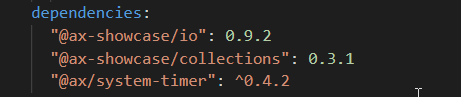
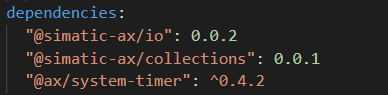
switch all to simatic-ax registry

diff --git a/doc/write-tests.md b/doc/write-tests.md
@@ -1,0 +1,116 @@
+# Using the testing framework
+
+## Goal for this training chapter
+
+After this training session:
+
+- you know the test explorer and the `Run tests` button
+- you can execute tests within the IDE
+- you've knowledge about the command line based testing
+- you know a test class looks like
+- you know how you create a test method
+- you know what are assertions and how they're used
+- use full qualified type identifier
+- you know how parametrized tests are working and modify them
+  
+### The test explorer and executing tests
+
+In the tutorial, there are a couple predefined tests shipped they can be executed.
+
+1. Open the test explorer
+
+    ![drawing](./images/testexplorer.png)
+
+1. Run the tests by clicking on `Run Tests`
+
+    ![drawing](./images/runtests.png)
+
+1. See the test results
+
+    ![drawing](./images/testresults.png)
+
+    **Alternative workflow**
+
+    You can also execute the tests by command line command. You've just to enter `apax test` in a terminal.
+
+    ```iec-st
+    apax test
+    ```
+
+    > Note: in case of executing the tests by command line, the test explorer results will not be updated. The test results will be shown in the command line output.
+
+### 
+
+### Create a test for the new implemented class valve
+
+1. Open the file `Test_Valve.st` in the folder `test`
+
+    ![drawing](./images/test_fixture.png)
+
+    Here you can see a template for a test class. It's marked with the pragma `{TestFixture}`
+
+1. Insert a test method. By entering `te`  `test-method` will be proposed. And press enter
+
+    ![drawing](./images/testmethod.png)
+
+    Test methods will be marked with the pragma `{Test}`
+
+    ![drawing](./images/testmethod2.png)
+
+1. Change the name of the method to `Test_Open_valve_and_Expect_IsOpen_True`
+
+    >Test methods should alway have a speech name //TODO speech??
+
+1. In the next step we select our class we want to test. Therefore we declare the variable v in the VAR section
+
+    ```iec-st
+    VAR PRIVATE
+        v : Simatic.Ax.Tutorial.Valve;
+    END_VAR
+    ```
+
+    In this case we use the full qualified path for the Valve class. This is another way to define variables from namespaces beside the `USING` keyword.
+
+1. To implement the test itself, we modify the method `MyTestMethod` in this way:
+
+    ```iec-st
+    {Test}
+    METHOD PUBLIC Test_Open_valve_and_Expect_IsOpen_True
+        v.Open();
+        AxUnit.Assert.Equal(actual := v.IsOpen(), expected := TRUE);
+    END_METHOD
+    ```
+
+    Explanation:
+
+    1. The method `v.Open()` calls the method Open of the class valve. In this case we expect, that the method `IsOpen()` returns the value `TRUE`
+
+    1. The expression `Equal(actual := v.IsOpen(), expected := TRUE);` contains the assertion `Equal` which check if the returned value of `IsOpen()` equals `TRUE`.
+
+        Further assertions are:
+        - NotEqual
+        - LessThan
+        - GreaterThan
+  
+        More information regarding testing, you'll find [here]([./images/test_fixture.png](https://console.prod.ax.siemens.cloud/docs/axunit))
+
+## Summary
+
+Goal reached? Check yourself...
+
+- you know the test explorer and the `Run tests` button ✔
+- you can execute tests within the IDE ✔
+- you've knowledge about the command line based testing ✔
+- you know a test class looks like ✔
+- you know how you create a test method ✔
+- you know what are assertions and how they're used ✔
+- use full qualified type identifier ✔
+- you know how parametrized tests are working and modify them ✔
+
+- you know the test explorer and the `Run tests` button ✔
+- you can execute tests within the IDE ✔
+- you've knowledge about the command line based testing ✔
+- you know what a test class is ✔
+- you know what a test method is ✔
+- you know what are assertions and how they're used ✔
+- you know how parametrized tests are working and modify them ✔

diff --git a/doc/testing-framework.md b/doc/testing-framework.md
@@ -1,4 +1,4 @@
-# Using the testing framework
+# Usage of the testing framework
 
 ## Goal for this training chapter
 
@@ -6,12 +6,8 @@ After this training session:
 
 - you know the test explorer and the `Run tests` button
 - you can execute tests within the IDE
+- you know the feature `single test execution`
 - you've knowledge about the command line based testing
-- you know a test class looks like
-- you know how you create a test method
-- you know what are assertions and how they're used
-- use full qualified type identifier
-- you know how parametrized tests are working and modify them
   
 ### The test explorer and executing tests
 
@@ -39,61 +35,6 @@ In the tutorial, there are a couple predefined tests shipped they can be execute
 
     > Note: in case of executing the tests by command line, the test explorer results will not be updated. The test results will be shown in the command line output.
 
-### 
-
-### Create a test for the new implemented class valve
-
-1. Open the file `Test_Valve.st` in the folder `test`
-
-    ![drawing](./images/test_fixture.png)
-
-    Here you can see a template for a test class. It's marked with the pragma `{TestFixture}`
-
-1. Insert a test method. By entering `te`  `test-method` will be proposed. And press enter
-
-    ![drawing](./images/testmethod.png)
-
-    Test methods will be marked with the pragma `{Test}`
-
-    ![drawing](./images/testmethod2.png)
-
-1. Change the name of the method to `Test_Open_valve_and_Expect_IsOpen_True`
-
-    >Test methods should alway have a speech name //TODO speech??
-
-1. In the next step we select our class we want to test. Therefore we declare the variable v in the VAR section
-
-    ```iec-st
-    VAR PRIVATE
-        v : Simatic.Ax.Tutorial.Valve;
-    END_VAR
-    ```
-
-    In this case we use the full qualified path for the Valve class. This is another way to define variables from namespaces beside the `USING` keyword.
-
-1. To implement the test itself, we modify the method `MyTestMethod` in this way:
-
-    ```iec-st
-    {Test}
-    METHOD PUBLIC Test_Open_valve_and_Expect_IsOpen_True
-        v.Open();
-        AxUnit.Assert.Equal(actual := v.IsOpen(), expected := TRUE);
-    END_METHOD
-    ```
-
-    Explanation:
-
-    1. The method `v.Open()` calls the method Open of the class valve. In this case we expect, that the method `IsOpen()` returns the value `TRUE`
-
-    1. The expression `Equal(actual := v.IsOpen(), expected := TRUE);` contains the assertion `Equal` which check if the returned value of `IsOpen()` equals `TRUE`.
-
-        Further assertions are:
-        - NotEqual
-        - LessThan
-        - GreaterThan
-  
-        More information regarding testing, you'll find [here]([./images/test_fixture.png](https://console.prod.ax.siemens.cloud/docs/axunit))
-
 ## Summary
 
 Goal reached? Check yourself...
@@ -101,16 +42,3 @@ Goal reached? Check yourself...
 - you know the test explorer and the `Run tests` button ✔
 - you can execute tests within the IDE ✔
 - you've knowledge about the command line based testing ✔
-- you know a test class looks like ✔
-- you know how you create a test method ✔
-- you know what are assertions and how they're used ✔
-- use full qualified type identifier ✔
-- you know how parametrized tests are working and modify them ✔
-
-- you know the test explorer and the `Run tests` button ✔
-- you can execute tests within the IDE ✔
-- you've knowledge about the command line based testing ✔
-- you know what a test class is ✔
-- you know what a test method is ✔
-- you know what are assertions and how they're used ✔
-- you know how parametrized tests are working and modify them ✔

diff --git a/doc/setup.md b/doc/setup.md
@@ -111,13 +111,13 @@ In the header of this file you find some information about the project.
 
 #### **devDependencies**
 
-This section contains dte dependencies,, which are necessary during the development. Here just the `@as/sdk` in version `0.2.499` is required.
+This section contains dte dependencies,, which are necessary during the development. Here just the `@ax/sdk` in version `0.2.499` is required.
 
 #### **dependencies** and **registries**
 
 In this tutorial we also need some other libraries. Hence this are dependencies which are necessary for building the library.
 
-In this example, there are two further libraries form the `@ax-showcase` registry required.
+In this example, there are two further libraries form the `@simatic-ax` registry required.
 
 For the moment, it's not important to know what the content of this libraries is. This libraries are hosted on GitHub. So we've to tell apax, where the GitHub Registry is located. This will be done in the section `registries`
 The URL of the Github registry is:

diff --git a/README.md b/README.md
@@ -10,7 +10,8 @@ Chapters:
 - [Apax package manager usage](./doc/setup.md)
 - [Introduction in OOP](./doc/oop-introduction.md)
 - [User defined snippets](./doc/user-defined-snippets.md)
-- [Using the testing framework](./doc/testing-framework.md)
+- [Usage of the testing framework](./doc/testing-framework.md)
+- [Write own tests](./doc/write-tests.md)
 - [Debugging of tests](./doc/test-debugging.md)
 - [Packing and publishing libraries](./doc/publishing-lib.md)
 
